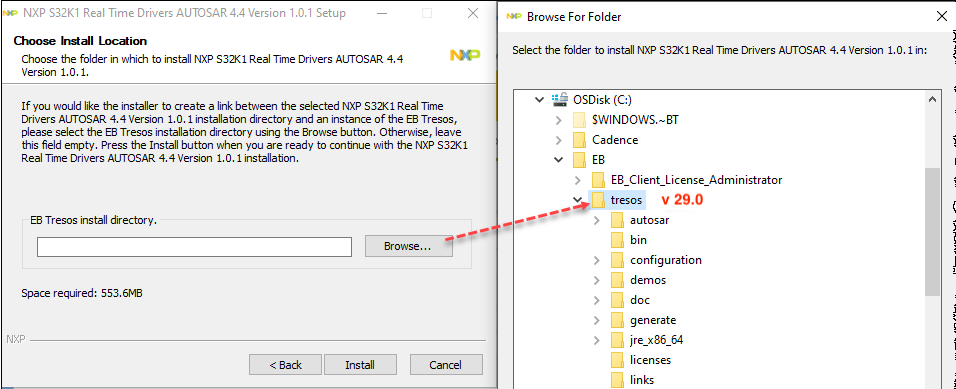
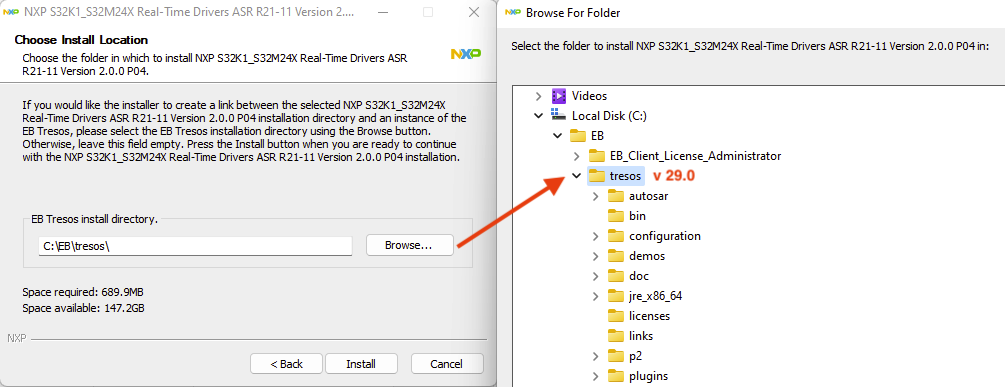
README.md updated

diff --git a/README.md b/README.md
@@ -125,6 +125,12 @@ _Back to [Setup Notes](#4-setup-notes)_
 
 ![Setup_image_6.png](https://github.com/renatosoriano/AUTOSAR-MCAL-Embedded-Upskilling-Bootcamp/blob/main/Images/Tools_Setup/Setup_image_6.png)
 
+![Setup_image_30.png](https://github.com/renatosoriano/AUTOSAR-MCAL-Embedded-Upskilling-Bootcamp/blob/main/Images/Tools_Setup/Setup_image_30.png)
+
+![Setup_image_31.png](https://github.com/renatosoriano/AUTOSAR-MCAL-Embedded-Upskilling-Bootcamp/blob/main/Images/Tools_Setup/Setup_image_31.png)
+
+![Setup_image_32.png](https://github.com/renatosoriano/AUTOSAR-MCAL-Embedded-Upskilling-Bootcamp/blob/main/Images/Tools_Setup/Setup_image_32.png)
+
 8. <ins>VERY IMPORTANT: At the moment of installing it do not forget to point it out to the EB Tresos install path!<ins>
 
 ![Setup_image_7.png](https://github.com/renatosoriano/AUTOSAR-MCAL-Embedded-Upskilling-Bootcamp/blob/main/Images/Tools_Setup/Setup_image_7.png)
